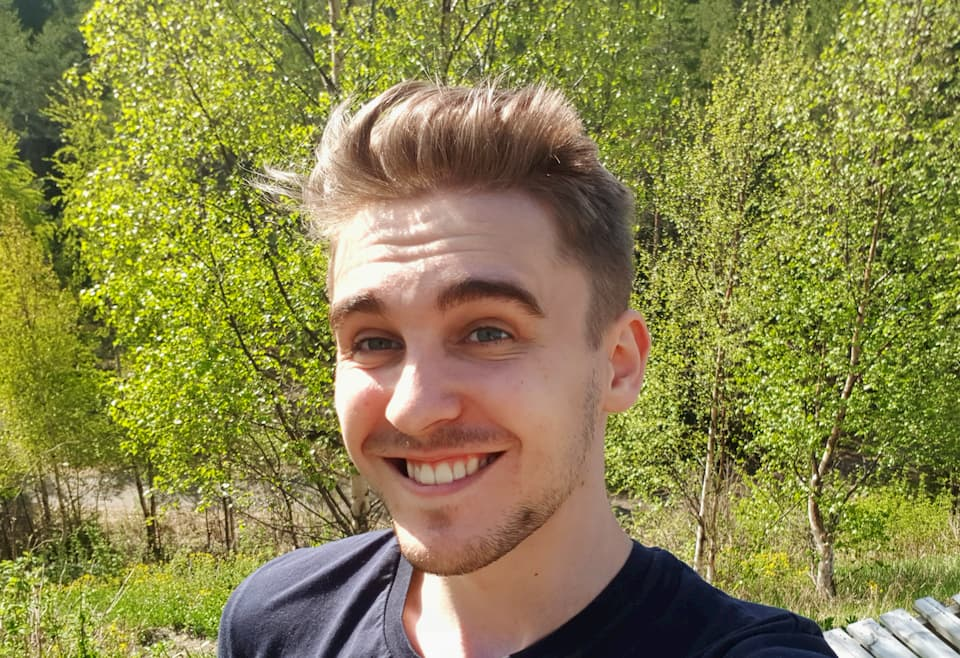
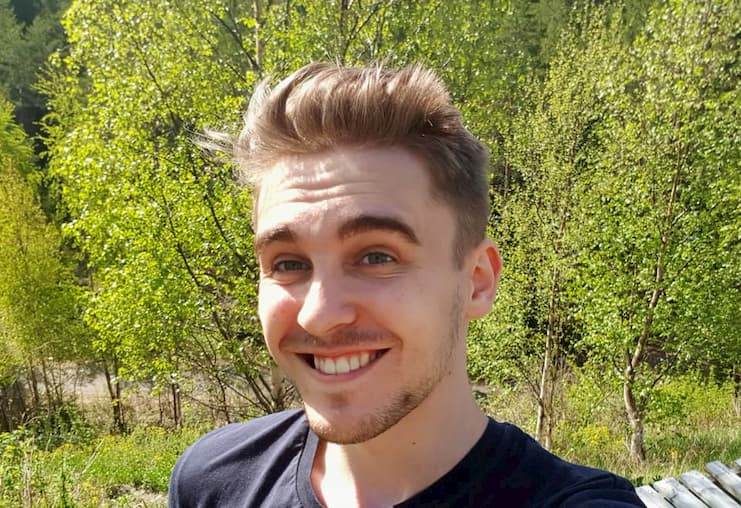
smol image

diff --git a/sw.js b/sw.js
@@ -1,3 +1,3 @@
-var __wpo = {"assets":{"main":["./images/favicon.svg","./images/wood_selfie_1.jpg","./images/markus-spiske-666905-unsplash_w_1400.jpg","./images/long-card.jpg","./images/Leo_Buren_CV.pdf","./webpack-bundle.css","./webpack-bundle.js","./","./404.html","./about.html"],"additional":[],"optional":[]},"externals":[],"hashesMap":{"014aa3ef72cf2d84ee3776f0672b7e71e477463c":"./images/favicon.svg","d2c72d1d70b2e1e9e25ef80c29218f0b3fcfcdea":"./images/wood_selfie_1.jpg","c816f8dab5f6892d07aa1d61cdf5dd4b73d25c48":"./images/markus-spiske-666905-unsplash_w_1400.jpg","fe38e78d0673b42ba5abaa5077238a3e8b9ef834":"./images/long-card.jpg","f676868d0ec5afcd756041825f387e5c88a6eaea":"./images/Leo_Buren_CV.pdf","66295aaeab5c6cca816dde3b3fd4f5ab534e3213":"./webpack-bundle.css","e7f145a77df6b0d329015b60c81228b1f3d4c878":"./webpack-bundle.js","6307ee3cffd8c03175ded85eac21c9f6a1999a43":"./","6c95845e623267fb840eeea7899e990f7b18fb0a":"./404.html","0619a1d51b534168a1ac7c3098d27506d918d7cf":"./about.html"},"strategy":"changed","responseStrategy":"cache-first","version":"2019-5-21 01:53:31","name":"webpack-offline","pluginVersion":"5.0.7","relativePaths":true};
+var __wpo = {"assets":{"main":["./images/favicon.svg","./images/wood_selfie_1.jpg","./images/markus-spiske-666905-unsplash_w_1400.jpg","./images/long-card.jpg","./images/Leo_Buren_CV.pdf","./webpack-bundle.css","./webpack-bundle.js","./","./404.html","./about.html"],"additional":[],"optional":[]},"externals":[],"hashesMap":{"014aa3ef72cf2d84ee3776f0672b7e71e477463c":"./images/favicon.svg","92292e099a84a7ab068c4b9e7b2742c25889043a":"./images/wood_selfie_1.jpg","c816f8dab5f6892d07aa1d61cdf5dd4b73d25c48":"./images/markus-spiske-666905-unsplash_w_1400.jpg","e5009e9a1b035331ae94b0cac59d8050204dea11":"./images/long-card.jpg","f676868d0ec5afcd756041825f387e5c88a6eaea":"./images/Leo_Buren_CV.pdf","66295aaeab5c6cca816dde3b3fd4f5ab534e3213":"./webpack-bundle.css","e7f145a77df6b0d329015b60c81228b1f3d4c878":"./webpack-bundle.js","6307ee3cffd8c03175ded85eac21c9f6a1999a43":"./","6c95845e623267fb840eeea7899e990f7b18fb0a":"./404.html","0619a1d51b534168a1ac7c3098d27506d918d7cf":"./about.html"},"strategy":"changed","responseStrategy":"cache-first","version":"2019-5-21 02:07:52","name":"webpack-offline","pluginVersion":"5.0.7","relativePaths":true};
 
 !function(e){var n={};function t(r){if(n[r])return n[r].exports;var o=n[r]={i:r,l:!1,exports:{}};return e[r].call(o.exports,o,o.exports,t),o.l=!0,o.exports}t.m=e,t.c=n,t.d=function(e,n,r){t.o(e,n)||Object.defineProperty(e,n,{enumerable:!0,get:r})},t.r=function(e){"undefined"!=typeof Symbol&&Symbol.toStringTag&&Object.defineProperty(e,Symbol.toStringTag,{value:"Module"}),Object.defineProperty(e,"__esModule",{value:!0})},t.t=function(e,n){if(1&n&&(e=t(e)),8&n)return e;if(4&n&&"object"==typeof e&&e&&e.__esModule)return e;var r=Object.create(null);if(t.r(r),Object.defineProperty(r,"default",{enumerable:!0,value:e}),2&n&&"string"!=typeof e)for(var o in e)t.d(r,o,function(n){return e[n]}.bind(null,o));return r},t.n=function(e){var n=e&&e.__esModule?function(){return e.default}:function(){return e};return t.d(n,"a",n),n},t.o=function(e,n){return Object.prototype.hasOwnProperty.call(e,n)},t.p="",t(t.s=0)}([function(e,n,t){"use strict";var r,o,i;if(r=ExtendableEvent.prototype.waitUntil,o=FetchEvent.prototype.respondWith,i=new WeakMap,ExtendableEvent.prototype.waitUntil=function(e){var n=this,t=i.get(n);if(!t)return t=[Promise.resolve(e)],i.set(n,t),r.call(n,Promise.resolve().then(function e(){var r=t.length;return Promise.all(t.map(function(e){return e.catch(function(){})})).then(function(){return t.length!=r?e():(i.delete(n),Promise.all(t))})}));t.push(Promise.resolve(e))},FetchEvent.prototype.respondWith=function(e){return this.waitUntil(e),o.call(this,e)},void 0===a)var a=!1;function c(e,n){return caches.match(e,{cacheName:n}).then(function(t){return s(t)?t:u(t).then(function(t){return caches.open(n).then(function(n){return n.put(e,t)}).then(function(){return t})})}).catch(function(){})}function s(e){return!e||!e.redirected||!e.ok||"opaqueredirect"===e.type}function u(e){return s(e)?Promise.resolve(e):("body"in e?Promise.resolve(e.body):e.blob()).then(function(n){return new Response(n,{headers:e.headers,status:e.status})})}function f(e,n){console.groupCollapsed("[SW]:",e),n.forEach(function(e){console.log("Asset:",e)}),console.groupEnd()}!function(e,n){var t=n.cacheMaps,r=n.navigationPreload,o=e.strategy,i=e.responseStrategy,s=e.assets,l=e.hashesMap,h=e.externals,d=e.prefetchRequest||{credentials:"same-origin",mode:"cors"},p=e.name,v=e.version,m=p+":"+v,g=p+"$preload",w="__offline_webpack__data";Object.keys(s).forEach(function(e){s[e]=s[e].map(function(e){var n=new URL(e,location);return n.hash="",-1===h.indexOf(e)&&(n.search=""),n.toString()})}),l=Object.keys(l).reduce(function(e,n){var t=new URL(l[n],location);return t.search="",t.hash="",e[n]=t.toString(),e},{}),h=h.map(function(e){var n=new URL(e,location);return n.hash="",n.toString()});var y=[].concat(s.main,s.additional,s.optional);function b(n){var t=s[n];return caches.open(m).then(function(r){return R(r,t,{bust:e.version,request:d,failAll:"main"===n})}).then(function(){f("Cached assets: "+n,t)}).catch(function(e){throw console.error(e),e})}function P(n){return caches.keys().then(function(e){for(var n=e.length,t=void 0;n--&&0!==(t=e[n]).indexOf(p););if(t){var r=void 0;return caches.open(t).then(function(e){return r=e,e.match(new URL(w,location).toString())}).then(function(e){if(e)return Promise.all([r,r.keys(),e.json()])})}}).then(function(t){if(!t)return b(n);var r=t[0],o=t[1],i=t[2],a=i.hashmap,c=i.version;if(!i.hashmap||c===e.version)return b(n);var u=Object.keys(a).map(function(e){return a[e]}),h=o.map(function(e){var n=new URL(e.url);return n.search="",n.hash="",n.toString()}),p=s[n],v=[],g=p.filter(function(e){return-1===h.indexOf(e)||-1===u.indexOf(e)});Object.keys(l).forEach(function(e){var n=l[e];if(-1!==p.indexOf(n)&&-1===g.indexOf(n)&&-1===v.indexOf(n)){var t=a[e];t&&-1!==h.indexOf(t)?v.push([t,n]):g.push(n)}}),f("Changed assets: "+n,g),f("Moved assets: "+n,v);var w=Promise.all(v.map(function(e){return r.match(e[0]).then(function(n){return[e[1],n]})}));return caches.open(m).then(function(t){var r=w.then(function(e){return Promise.all(e.map(function(e){return t.put(e[0],e[1])}))});return Promise.all([r,R(t,g,{bust:e.version,request:d,failAll:"main"===n,deleteFirst:"main"!==n})])})})}function O(){return caches.keys().then(function(e){var n=e.map(function(e){if(0===e.indexOf(p)&&0!==e.indexOf(m))return console.log("[SW]:","Delete cache:",e),caches.delete(e)});return Promise.all(n)})}function S(){return caches.open(m).then(function(n){var t=new Response(JSON.stringify({version:e.version,hashmap:l}));return n.put(new URL(w,location).toString(),t)})}self.addEventListener("install",function(e){console.log("[SW]:","Install event");var n=void 0;n="changed"===o?P("main"):b("main"),e.waitUntil(n)}),self.addEventListener("activate",function(e){console.log("[SW]:","Activate event");var n=function(){if(!s.additional.length)return Promise.resolve();a&&console.log("[SW]:","Caching additional");return("changed"===o?P("additional"):b("additional")).catch(function(e){console.error("[SW]:","Cache section `additional` failed to load")})}();n=(n=(n=n.then(S)).then(O)).then(function(){if(self.clients&&self.clients.claim)return self.clients.claim()}),r&&self.registration.navigationPreload&&(n=Promise.all([n,self.registration.navigationPreload.enable()])),e.waitUntil(n)}),self.addEventListener("fetch",function(e){if("GET"===e.request.method&&("only-if-cached"!==e.request.cache||"same-origin"===e.request.mode)){var n=new URL(e.request.url);n.hash="";var o=n.toString();-1===h.indexOf(o)&&(n.search="",o=n.toString());var s=-1!==y.indexOf(o),u=o;if(!s){var f=function(e){var n=e.url,r=new URL(n),o=void 0;o=function(e){return"navigate"===e.mode||e.headers.get("Upgrade-Insecure-Requests")||-1!==(e.headers.get("Accept")||"").indexOf("text/html")}(e)?"navigate":r.origin===location.origin?"same-origin":"cross-origin";for(var i=0;i<t.length;i++){var a=t[i];if(a&&(!a.requestTypes||-1!==a.requestTypes.indexOf(o))){var c=void 0;if((c="function"==typeof a.match?a.match(r,e):n.replace(a.match,a.to))&&c!==n)return c}}}(e.request);f&&(u=f,s=!0)}if(s){var l=void 0;l="network-first"===i?function(e,n,t){return x(e).then(function(e){if(e.ok)return a&&console.log("[SW]:","URL ["+n+"] from network"),e;throw e}).catch(function(e){return a&&console.log("[SW]:","URL ["+n+"] from cache if possible"),c(t,m).then(function(n){if(n)return n;if(e instanceof Response)return e;throw e})})}(e,o,u):function(e,n,t){return function(e){if(r&&"function"==typeof r.map&&e.preloadResponse&&"navigate"===e.request.mode){var n=r.map(new URL(e.request.url),e.request);n&&function(e,n){var t=new URL(e,location),r=n.preloadResponse;U.set(r,{url:t,response:r});var o=function(){return U.has(r)},i=r.then(function(e){if(e&&o()){var n=e.clone();return caches.open(g).then(function(e){if(o())return e.put(t,n).then(function(){if(!o())return caches.open(g).then(function(e){return e.delete(t)})})})}});n.waitUntil(i)}(n,e)}}(e),c(t,m).then(function(r){return r?(a&&console.log("[SW]:","URL ["+t+"]("+n+") from cache"),r):fetch(e.request).then(function(r){return r.ok?(a&&console.log("[SW]:","URL ["+n+"] from network"),t===n&&(o=r.clone(),i=caches.open(m).then(function(e){return e.put(n,o)}).then(function(){console.log("[SW]:","Cache asset: "+n)}),e.waitUntil(i)),r):(a&&console.log("[SW]:","URL ["+n+"] wrong response: ["+r.status+"] "+r.type),r);var o,i})})}(e,o,u),e.respondWith(l)}else{if("navigate"===e.request.mode&&!0===r)return void e.respondWith(x(e));if(r){var d=function(e){var n=new URL(e.request.url);if(self.registration.navigationPreload&&r&&r.test&&r.test(n,e.request)){var t=function(e){if(U){var n=void 0,t=void 0;return U.forEach(function(r,o){r.url.href===e.href&&(n=r.response,t=o)}),n?(U.delete(t),n):void 0}}(n),o=e.request;return t?(e.waitUntil(caches.open(g).then(function(e){return e.delete(o)})),t):c(o,g).then(function(n){return n&&e.waitUntil(caches.open(g).then(function(e){return e.delete(o)})),n||fetch(e.request)})}}(e);if(d)return void e.respondWith(d)}}}}),self.addEventListener("message",function(e){var n=e.data;if(n)switch(n.action){case"skipWaiting":self.skipWaiting&&self.skipWaiting()}});var U=new Map;function R(e,n,t){n=n.slice();var r=t.bust,o=!1!==t.failAll,i=!0===t.deleteFirst,a=t.request||{credentials:"omit",mode:"cors"},c=Promise.resolve();return i&&(c=Promise.all(n.map(function(n){return e.delete(n).catch(function(){})}))),Promise.all(n.map(function(e){var n,t,o;return r&&(t=r,o=-1!==(n=e).indexOf("?"),e=n+(o?"&":"?")+"__uncache="+encodeURIComponent(t)),fetch(e,a).then(u).then(function(e){return e.ok?{response:e}:{error:!0}},function(){return{error:!0}})})).then(function(t){return o&&t.some(function(e){return e.error})?Promise.reject(new Error("Wrong response status")):(o||(t=t.filter(function(e,t){return!e.error||(n.splice(t,1),!1)})),c.then(function(){var r=t.map(function(t,r){var o=t.response;return e.put(n[r],o)});return Promise.all(r)}))})}function x(e){return e.preloadResponse&&!0===r?e.preloadResponse.then(function(n){return n||fetch(e.request)}):fetch(e.request)}}(__wpo,{loaders:{},cacheMaps:[],navigationPreload:!1}),e.exports=t(1)},function(e,n){}]);
